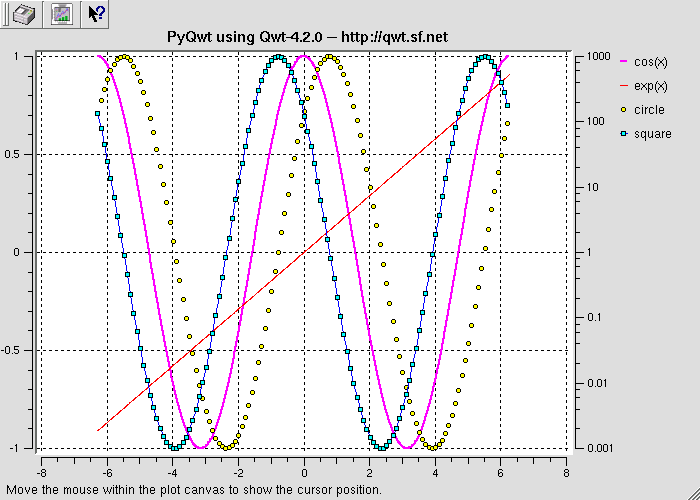
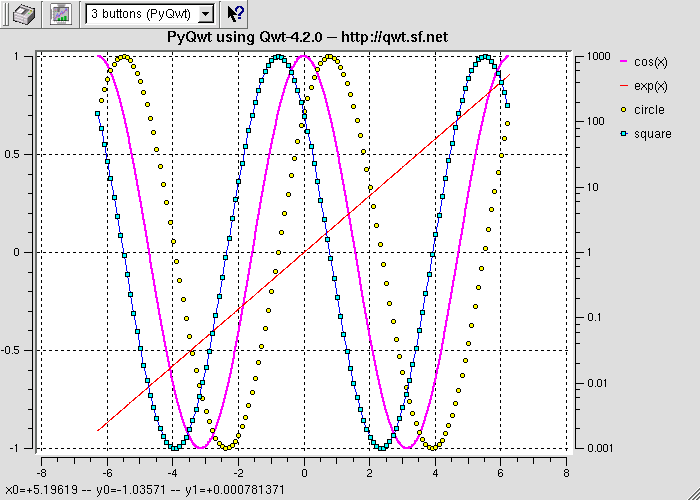
Improved StackOrder and rearranged examples

Changed region(s): [[0.06, 0.0, 0.36, 0.06], [0.0, 0.96, 0.54, 0.99]]

diff --git a/examples/StackOrder.py.html b/examples/StackOrder.py.html
@@ -80,15 +80,15 @@
         <font color=blue># Initialize a QwPlot central widget</font>
         self.plot = QwtPlot(<font color=green>'left-click &amp; drag to zoom'</font>
                             <font color=green>' -- '</font>
-                            <font color=green>'right-click to unzoom'</font>,
+                            <font color=green>'use the ?-pointer for help'</font>,
                             self)
         self.plot.plotLayout().setCanvasMargin(0)
         self.plot.plotLayout().setAlignCanvasToScales(True)
         self.setCentralWidget(self.plot)
 
-        self.__initToolBar()
         self.__initTracking()
         self.__initZooming()
+        self.__initToolBar()
         
         <font color=blue># Finalize</font>
         self.counter.setValue(10)
@@ -96,161 +96,201 @@
 
     <font color=blue># __init__()</font>
 
+    <b>def</b><font color=red> __initTracking</font>(self):
+        <font color=green>"""Initialize tracking
+        """</font>        
+        self.connect(self.plot,
+                     SIGNAL(<font color=green>'plotMouseMoved(const QMouseEvent&amp;)'</font>),
+                     self.onMouseMoved)
+        self.plot.canvas().setMouseTracking(True)
+        self.statusBar().message(
+            <font color=green>'Plot cursor movements are tracked in the status bar'</font>)
+
+    <font color=blue># __initTracking()</font>
+
+    <b>def</b><font color=red> onMouseMoved</font>(self, e):
+        self.statusBar().message(
+            <font color=green>'x = %+.6g, y = %.6g'</font>
+            % (self.plot.invTransform(QwtPlot.xBottom, e.pos().x()),
+               self.plot.invTransform(QwtPlot.yLeft, e.pos().y())))
+
+    <font color=blue># onMouseMoved()</font>
+    
+    <b>def</b><font color=red> __initZooming</font>(self):
+        <font color=green>"""Initialize zooming
+        """</font>
+        self.zoomer = QwtPlotZoomer(QwtPlot.xBottom,
+                                    QwtPlot.yLeft,
+                                    QwtPicker.DragSelection,
+                                    QwtPicker.AlwaysOff,
+                                    self.plot.canvas())
+        self.zoomer.setRubberBandPen(QPen(Qt.black))
+
+    <font color=blue># __initZooming()</font>
+       
+    <b>def</b><font color=red> setZoomerMousePattern</font>(self, index):
+        <font color=green>"""Set the mouse zoomer pattern.
+        """</font>
+        <b>if</b> index == 0:
+            pattern = [
+                QwtEventPattern.MousePattern(Qt.LeftButton, Qt.NoButton),
+                QwtEventPattern.MousePattern(Qt.MidButton, Qt.NoButton),
+                QwtEventPattern.MousePattern(Qt.RightButton, Qt.NoButton),
+                QwtEventPattern.MousePattern(Qt.LeftButton, Qt.ShiftButton),
+                QwtEventPattern.MousePattern(Qt.MidButton, Qt.ShiftButton),
+                QwtEventPattern.MousePattern(Qt.RightButton, Qt.ShiftButton),
+                ]
+            self.zoomer.setMousePattern(pattern)
+        <b>elif</b> index <b>in</b> (1, 2, 3):
+            self.zoomer.initMousePattern(index)
+        <b>else</b>:
+            <b>raise</b> ValueError, <font color=green>'index must be in (0, 1, 2, 3)'</font>
+
+    <font color=blue># setZoomerMousePattern()</font>
+
     <b>def</b><font color=red> __initToolBar</font>(self):
         <font color=green>"""Initialize the toolbar
         """</font>
         
         self.toolBar = QToolBar(self)
 
-        QLabel(<font color=green>"Pen:"</font>, self.toolBar)
-
+        QLabel(<font color=green>'Pen'</font>, self.toolBar)
         self.penComboBox = QComboBox(self.toolBar)
         <b>for</b> name <b>in</b> self.table.keys():
             self.penComboBox.insertItem(name)
         self.penComboBox.setCurrentItem(
             random.randint(0, self.penComboBox.count()-1))
+        self.penComboBox.setMaximumWidth(75)
+        self.toolBar.addSeparator()
 
-        QLabel(<font color=green>"Brush:"</font>, self.toolBar)
-
+        QLabel(<font color=green>'Brush'</font>, self.toolBar)
         self.brushComboBox = QComboBox(self.toolBar)
         <b>for</b> name <b>in</b> self.table.keys():
             self.brushComboBox.insertItem(name)
         self.brushComboBox.setCurrentItem(
             random.randint(0, self.brushComboBox.count()-1))
+        self.brushComboBox.setMaximumWidth(75)
+        self.toolBar.addSeparator()
 
-        self.toolBar.setStretchableWidget(QWidget(self.toolBar))
-
-        QLabel(<font color=green>"Bars:"</font>, self.toolBar)
-
+        QLabel(<font color=green>'Bars'</font>, self.toolBar)
         self.counter = QwtCounter(self.toolBar)
         self.counter.setRange(0, 10000, 1)
         self.counter.setNumButtons(3)
+        self.toolBar.addSeparator()
+
+        QLabel(<font color=green>'Mouse'</font>, self.toolBar)
+        mouseComboBox = QComboBox(self.toolBar)
+        <b>for</b> name <b>in</b> (<font color=green>'3 buttons (PyQwt)'</font>,
+                     <font color=green>'1 button'</font>,
+                     <font color=green>'2 buttons'</font>,
+                     <font color=green>'3 buttons (Qwt)'</font>):
+            mouseComboBox.insertItem(name)
+        mouseComboBox.setCurrentItem(0)
+        self.toolBar.addSeparator()
+        self.setZoomerMousePattern(0)
+
+        QWhatsThis.whatsThisButton(self.toolBar)
+
+        QWhatsThis.add(
+            self.plot.canvas(),
+            <font color=green>'A QwtPlotZoomer lets you zoom infinitely deep\n'</font>
+            <font color=green>'by saving the zoom states on a stack.\n\n'</font>
+            <font color=green>'You can:\n'</font>
+            <font color=green>'- select a zoom region\n'</font>
+            <font color=green>'- unzoom all\n'</font>
+            <font color=green>'- walk down the stack\n'</font>
+            <font color=green>'- walk up the stack.\n\n'</font>
+            <font color=green>'One of the combo boxes in the toolbar lets you attach\n'</font>
+            <font color=green>'different sets of mouse events to those actions.'</font>
+            )
+        
+        QWhatsThis.add(
+            self.penComboBox,
+            <font color=green>'Select the pen color of the bars.'</font>
+            )
+        
+        QWhatsThis.add(
+            self.brushComboBox,
+            <font color=green>'Select the brush color of the bars'</font>
+            )
+        
+        QWhatsThis.add(
+            self.counter,
+            <font color=green>'Select the number of bars'</font>
+            )
+        
+        QWhatsThis.add(
+            mouseComboBox,
+            <font color=green>'Configure the zoomer mouse buttons.\n\n'</font>
+            <font color=green>'3 buttons (PyQwt style):\n'</font>
+            <font color=green>'- left-click &amp; drag to zoom\n'</font>
+            <font color=green>'- middle-click to unzoom all\n'</font>
+            <font color=green>'- right-click to walk down the stack\n'</font>
+            <font color=green>'- shift-right-click to walk up the stack.\n'</font>
+            <font color=green>'1 button:\n'</font>
+            <font color=green>'- click &amp; drag to zoom\n'</font>
+            <font color=green>'- control-click to unzoom all\n'</font>
+            <font color=green>'- alt-click to walk down the stack\n'</font>
+            <font color=green>'- shift-alt-click to walk up the stack.\n'</font>
+            <font color=green>'2 buttons:\n'</font>
+            <font color=green>'- left-click &amp; drag to zoom\n'</font>
+            <font color=green>'- right-click to unzoom all\n'</font>
+            <font color=green>'- alt-left-click to walk down the stack\n'</font>
+            <font color=green>'- alt-shift-left-click to walk up the stack.\n'</font>
+            <font color=green>'3 buttons (Qwt style):\n'</font>
+            <font color=green>'- left-click &amp; drag to zoom\n'</font>
+            <font color=green>'- right-click to unzoom all\n'</font>
+            <font color=green>'- middle-click to walk down the stack\n'</font>
+            <font color=green>'- shift-middle-click to walk up the stack.\n\n'</font>
+            <font color=green>'If some of those key combinations interfere with\n'</font>
+            <font color=green>'your Window manager, press the:\n'</font>
+            <font color=green>'- escape-key to unzoom all\n'</font>
+            <font color=green>'- minus-key to walk down the stack\n'</font>
+            <font color=green>'- plus-key to walk up the stack.'</font>
+            )
 
         self.connect(self.counter, SIGNAL(<font color=green>'valueChanged(double)'</font>), self.go)
         self.connect(self.penComboBox, SIGNAL(<font color=green>'activated(int)'</font>), self.go)
         self.connect(self.brushComboBox, SIGNAL(<font color=green>'activated(int)'</font>), self.go)
+        self.connect(mouseComboBox, SIGNAL(<font color=green>'activated(int)'</font>),
+                     self.setZoomerMousePattern)
 
     <font color=blue># __initToolBar()</font>
 
-    <b>def</b><font color=red> __initTracking</font>(self):
-        <font color=green>"""Initialize tracking
-        """</font>
-        
-        self.plot.canvas().setMouseTracking(True)
-        self.statusBar().message(
-            <font color=green>"Plot cursor movements are tracked in the status bar"</font>)
-
-    <font color=blue># __initTracking()</font>
-
-    <b>def</b><font color=red> __initZooming</font>(self):
-        <font color=green>"""Initialize zooming
-        """</font>
-
-        self.zoomStack = []
-        self.connect(self.plot,
-                     SIGNAL(<font color=green>'plotMouseMoved(const QMouseEvent&amp;)'</font>),
-                     self.onMouseMoved)
-        self.connect(self.plot,
-                     SIGNAL(<font color=green>'plotMousePressed(const QMouseEvent&amp;)'</font>),
-                     self.onMousePressed)
-        self.connect(self.plot,
-                     SIGNAL(<font color=green>'plotMouseReleased(const QMouseEvent&amp;)'</font>),
-                     self.onMouseReleased)
-
-    <font color=blue># __initZooming()</font>
-       
     <b>def</b><font color=red> go</font>(self, x):
-        <font color=green>"""Create and plot a sequence bars taking into account the controls
+        <font color=green>"""Create and plot a sequence of bars taking into account the controls
         """</font>
 
-        <b>if</b> type(x) == type(0):
-            <font color=blue># activated(int)</font>
-            x = int(self.counter.value())
-        <b>else</b>:
-            <font color=blue># valueChanged(double)</font>
-            self.clearZoomStack()
-
+        n = int(self.counter.value())
         penColor = self.table[str(self.penComboBox.currentText())]
         brushColor = self.table[str(self.brushComboBox.currentText())]
             
         self.plot.removeCurves()
 
-        <b>for</b> i <b>in</b> range(x):
+        <b>for</b> i <b>in</b> range(n):
             curve = QwtBarCurve(self.plot, penColor, brushColor)
             key = self.plot.insertCurve(curve)
             self.plot.setCurveStyle(key, QwtCurve.UserCurve)
             self.plot.setCurveData(key, [i, i+1.4], [0.3*i, 5.0+0.3*i])
 
-        self.plot.replot()
+        <b>if</b> type(x) == type(0.0):
+            <font color=blue># SIGNAL("valueChanged(double)")</font>
+            self.clearZoomStack()
+        <b>else</b>:
+            self.plot.replot()
 
     <font color=blue># go()</font>
 
-    <b>def</b><font color=red> onMouseMoved</font>(self, e):
-        self.statusBar().message(
-            <font color=green>"x = %+.6g, y = %.6g"</font>
-            % (self.plot.invTransform(QwtPlot.xBottom, e.pos().x()),
-               self.plot.invTransform(QwtPlot.yLeft, e.pos().y())))
-
-    <font color=blue># onMouseMoved()</font>
-    
     <b>def</b><font color=red> clearZoomStack</font>(self):
-        <b>for</b> i <b>in</b> (QwtPlot.xBottom, QwtPlot.yLeft):
-            self.plot.setAxisAutoScale(i)
-        self.zoomStack = []
+        <font color=green>"""Auto scale and clear the zoom stack
+        """</font>
+        self.plot.setAxisAutoScale(QwtPlot.xBottom)
+        self.plot.setAxisAutoScale(QwtPlot.yLeft)
+        self.plot.replot()
+        self.zoomer.setZoomBase()
 
     <font color=blue># clearZoomStack()</font>
     
-    <b>def</b><font color=red> onMousePressed</font>(self, e):
-        <b>if</b> Qt.LeftButton == e.button():
-            <font color=blue># Python semantics: self.pos = e.pos() does not work; force a copy</font>
-            self.xpos = e.pos().x()
-            self.ypos = e.pos().y()
-            self.plot.enableOutline(1)
-            self.plot.setOutlinePen(QPen(Qt.black))
-            self.plot.setOutlineStyle(Qwt.Rect)
-            self.zooming = 1
-            <b>if</b> self.zoomStack == []:
-                self.zoomState = (
-                    self.plot.axisScale(QwtPlot.xBottom).lBound(),
-                    self.plot.axisScale(QwtPlot.xBottom).hBound(),
-                    self.plot.axisScale(QwtPlot.yLeft).lBound(),
-                    self.plot.axisScale(QwtPlot.yLeft).hBound(),
-                    )
-        <b>elif</b> Qt.RightButton == e.button():
-            self.zooming = 0
-        <font color=blue># fake a mouse move to show the cursor position</font>
-        self.onMouseMoved(e)
-
-    <font color=blue># onMousePressed()</font>
-
-    <b>def</b><font color=red> onMouseReleased</font>(self, e):
-        <b>if</b> Qt.LeftButton == e.button():
-            xmin = min(self.xpos, e.pos().x())
-            xmax = max(self.xpos, e.pos().x())
-            ymin = min(self.ypos, e.pos().y())
-            ymax = max(self.ypos, e.pos().y())
-            self.plot.setOutlineStyle(Qwt.Cross)
-            xmin = self.plot.invTransform(QwtPlot.xBottom, xmin)
-            xmax = self.plot.invTransform(QwtPlot.xBottom, xmax)
-            ymin = self.plot.invTransform(QwtPlot.yLeft, ymin)
-            ymax = self.plot.invTransform(QwtPlot.yLeft, ymax)
-            <b>if</b> xmin == xmax <b>or</b> ymin == ymax:
-                <b>return</b>
-            self.zoomStack.append(self.zoomState)
-            self.zoomState = (xmin, xmax, ymin, ymax)
-            self.plot.enableOutline(0)
-        <b>elif</b> Qt.RightButton == e.button():
-            <b>if</b> len(self.zoomStack):
-                xmin, xmax, ymin, ymax = self.zoomStack.pop()
-            <b>else</b>:
-                <b>return</b>
-
-        self.plot.setAxisScale(QwtPlot.xBottom, xmin, xmax)
-        self.plot.setAxisScale(QwtPlot.yLeft, ymin, ymax)
-        self.plot.replot()
-
-    <font color=blue># onMouseReleased()</font>
-
 <font color=blue># class StackOrderDemo</font>
 
 
@@ -264,7 +304,7 @@
 
 <b>def</b><font color=red> make</font>():
     demo = QwtBarPlotDemo()
-    demo.resize(500, 500)
+    demo.resize(600, 600)
     demo.show()
     <b>return</b> demo
 
